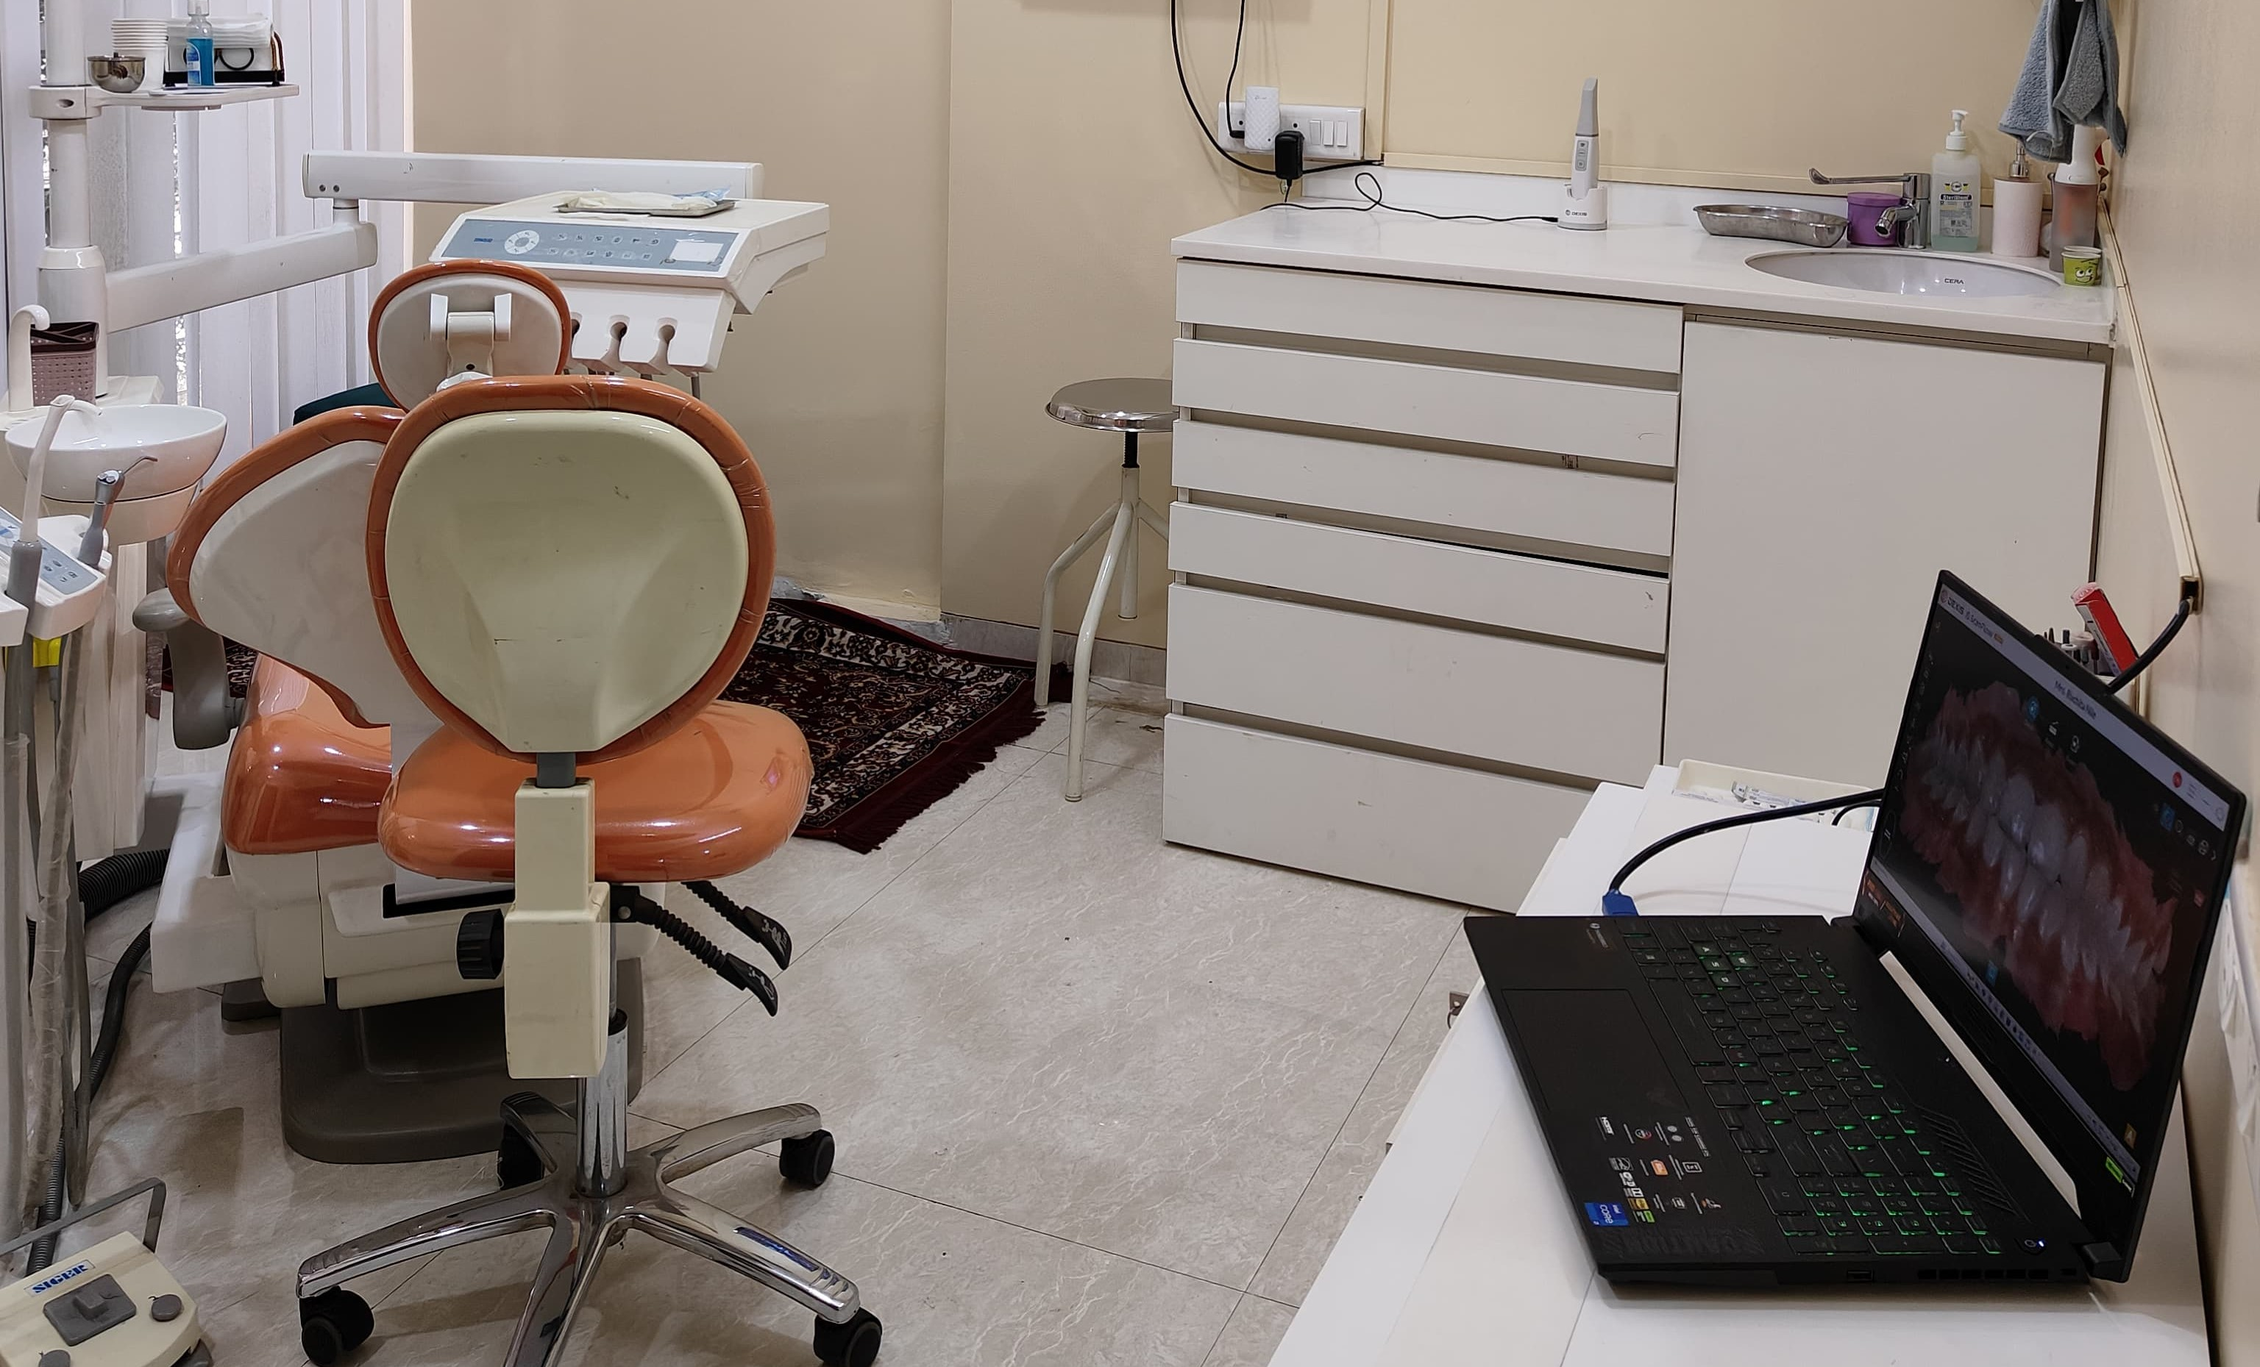
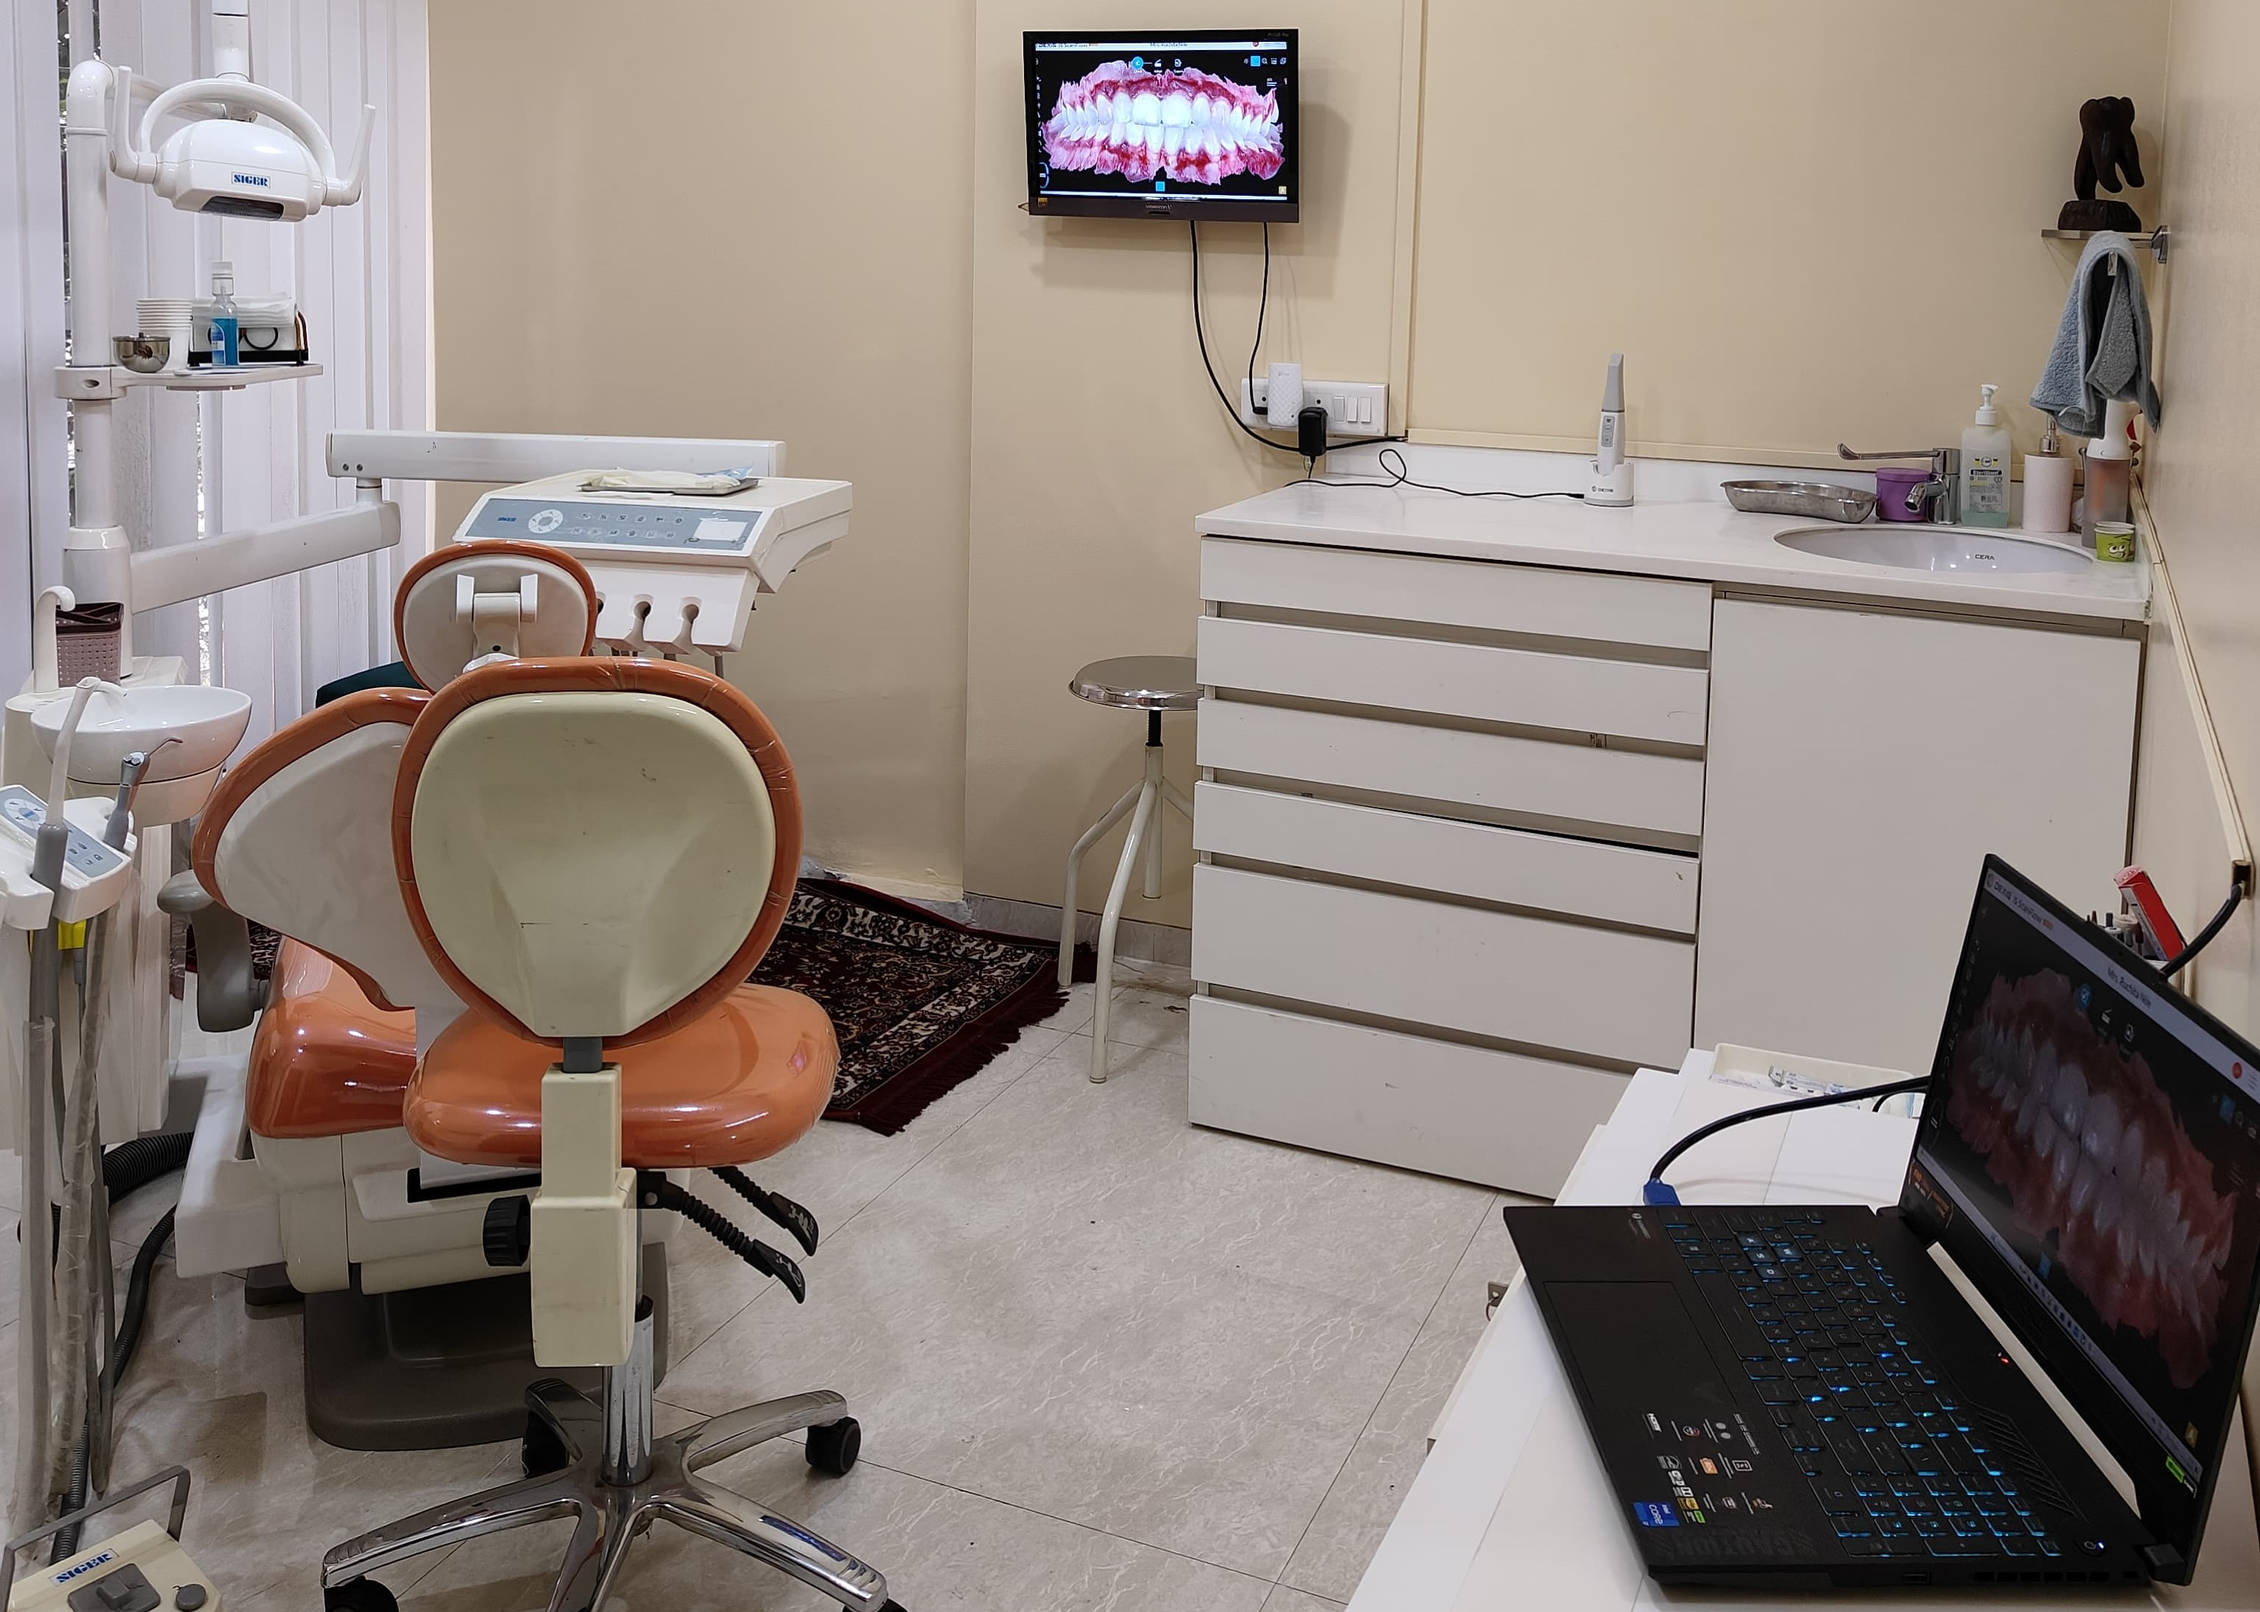
Add 5th mobile carousel image and optimize About section layout
- Add 5th treatment room image to mobile 3D flip carousel with 20s animation cycle
  - Reverse desktop photo stagger and constrain 4th image height
  - Standardize desktop services to 2-per-slide layout and reduce auto-rotate to 6s
  - Update service and about section images

diff --git a/src/pages/DentalMetrix.tsx b/src/pages/DentalMetrix.tsx
@@ -33,12 +33,13 @@ const DentalMetrix = () => {
     { title: "Maxillofacial Prosthesis", description: "Artificial replacements for facial structures lost due to trauma, surgery, or congenital conditions.", icon: <UserCheck size={24} />, image: "/images/maxillofacial-prosthesis.jpeg" }
   ];
 
-  // Desktop layout (4 slides: 2, 2, 3, 3)
+  // Desktop layout (5 slides: 2 services each)
   const desktopServiceSlides = [
-    [allServices[0], allServices[1]], // 2 services
-    [allServices[2], allServices[3]], // 2 services
-    [allServices[4], allServices[5], allServices[6]], // 3 services  
-    [allServices[7], allServices[8], allServices[9]] // 3 services
+    [allServices[0], allServices[1]], // Slide 1: Dental Implants, RCT & Crown
+    [allServices[2], allServices[3]], // Slide 2: Wisdom Tooth Extraction, Aligners
+    [allServices[4], allServices[5]], // Slide 3: Teeth Whitening, Scaling & Polishing
+    [allServices[6], allServices[7]], // Slide 4: Pediatric Dentistry, Smile Redesign
+    [allServices[8], allServices[9]]  // Slide 5: Full Mouth Rehabilitation, Maxillofacial Prosthesis
   ];
 
   // Mobile layout (5 slides with 2 services each)
@@ -91,12 +92,12 @@ const DentalMetrix = () => {
     };
   }, []);
 
-  // Auto-rotate services carousel every 10 seconds
+  // Auto-rotate services carousel every 6 seconds
   useEffect(() => {
     const interval = setInterval(() => {
       const maxSlides = isMobile ? mobileServiceSlides.length : desktopServiceSlides.length;
       setCurrentServiceSlide((prev) => (prev === maxSlides - 1 ? 0 : prev + 1));
-    }, 10000);
+    }, 6000);
 
     return () => clearInterval(interval);
   }, [isMobile, mobileServiceSlides.length, desktopServiceSlides.length]);
@@ -280,11 +281,28 @@ const DentalMetrix = () => {
                 </div>
 
                 {/* Card 4 - Treatment Room */}
-                <div className="flip-card" style={{ animationDelay: '12s', zIndex: 1 }}>
+                <div className="flip-card" style={{ animationDelay: '12s', zIndex: 2 }}>
+                  <div className="flip-card-inner">
+                    <div className="flip-card-front overflow-hidden">
+                      <div style={{ maxHeight: '250px', overflow: 'hidden' }}>
+                        <img
+                          src="/images/dental-treatment-room-2.jpg"
+                          alt="Dental Metrix Treatment Room"
+                          className="w-full h-auto rounded-lg"
+                          loading="lazy"
+                        />
+                      </div>
+                      <div className="flip-card-shadow"></div>
+                    </div>
+                  </div>
+                </div>
+
+                {/* Card 5 - Treatment Room 2 */}
+                <div className="flip-card" style={{ animationDelay: '16s', zIndex: 1 }}>
                   <div className="flip-card-inner">
                     <div className="flip-card-front">
                       <img
-                        src="/images/dental-treatment-room-2.jpg"
+                        src="/images/dental-treatment-room-3.jpg"
                         alt="Dental Metrix Treatment Room"
                         className="w-full h-auto rounded-lg"
                         loading="lazy"
@@ -300,6 +318,7 @@ const DentalMetrix = () => {
                   <div className="flip-indicator" style={{ animationDelay: '4s' }}></div>
                   <div className="flip-indicator" style={{ animationDelay: '8s' }}></div>
                   <div className="flip-indicator" style={{ animationDelay: '12s' }}></div>
+                  <div className="flip-indicator" style={{ animationDelay: '16s' }}></div>
                 </div>
               </div>
             </div>
@@ -355,7 +374,7 @@ const DentalMetrix = () => {
 
               {/* Photo Gallery - Left Column */}
               <div className="grid grid-cols-2 gap-3">
-                <div>
+                <div className="mt-16">
                   <img
                     src="/images/dental-reception.jpeg"
                     alt="Dental Metrix Reception Area"
@@ -363,7 +382,7 @@ const DentalMetrix = () => {
                     loading="lazy"
                   />
                 </div>
-                <div className="mt-8">
+                <div>
                   <img
                     src="/images/dental-waiting-area.jpeg"
                     alt="Dental Metrix Waiting Area"
@@ -371,7 +390,7 @@ const DentalMetrix = () => {
                     loading="lazy"
                   />
                 </div>
-                <div>
+                <div className="mt-12">
                   <img
                     src="/images/dental-smile-wall.jpeg"
                     alt="Dental Metrix Smile Wall"
@@ -379,7 +398,7 @@ const DentalMetrix = () => {
                     loading="lazy"
                   />
                 </div>
-                <div className="mt-8">
+                <div className="-mt-8 overflow-hidden rounded-lg" style={{ maxHeight: '280px' }}>
                   <img
                     src="/images/dental-treatment-room-2.jpg"
                     alt="Dental Metrix Treatment Room"
@@ -441,9 +460,9 @@ const DentalMetrix = () => {
                   >
                     {desktopServiceSlides.map((slide, slideIndex) => (
                       <div key={`desktop-${slideIndex}`} className="w-full flex-shrink-0">
-                        <div className={`grid gap-6 ${slide.length === 2 ? 'grid-cols-1 lg:grid-cols-2' : 'grid-cols-2 lg:grid-cols-3'}`}>
+                        <div className="grid grid-cols-1 lg:grid-cols-2 gap-6">
                           {slide.map((service, serviceIndex) => (
-                            <ServiceCard 
+                            <ServiceCard
                               key={`desktop-${slideIndex}-${serviceIndex}`}
                               title={service.title}
                               description={service.description}

diff --git a/src/index.css b/src/index.css
@@ -230,7 +230,7 @@
   width: 100%;
   height: 100%;
   transform-style: preserve-3d;
-  animation: cardFlip 16s cubic-bezier(0.68, -0.55, 0.265, 1.55) infinite;
+  animation: cardFlip 20s cubic-bezier(0.68, -0.55, 0.265, 1.55) infinite;
 }
 
 /* Card Inner Container */
@@ -276,11 +276,11 @@
     transform: rotateY(0deg);
     opacity: 1;
   }
-  22% {
+  18% {
     transform: rotateY(0deg);
     opacity: 1;
   }
-  25% {
+  20% {
     transform: rotateY(90deg);
     opacity: 0;
   }
@@ -297,7 +297,7 @@
   border-radius: 50%;
   background-color: rgba(255, 255, 255, 0.4);
   border: 2px solid rgba(212, 162, 27, 0.3);
-  animation: indicatorPulse 16s ease-in-out infinite;
+  animation: indicatorPulse 20s ease-in-out infinite;
   transition: all 0.4s cubic-bezier(0.68, -0.55, 0.265, 1.55);
 }
 
@@ -314,7 +314,7 @@
     box-shadow: 0 0 12px rgba(212, 162, 27, 0.8);
     border-color: rgba(212, 162, 27, 1);
   }
-  25% {
+  20% {
     background-color: rgba(255, 255, 255, 0.4);
     transform: scale(1);
     box-shadow: 0 0 0 rgba(212, 162, 27, 0);
